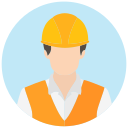
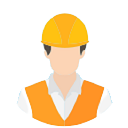
Ajuste de imagens MenuView

diff --git a/ProjetoBD/src/View/MenuView.java b/ProjetoBD/src/View/MenuView.java
@@ -55,7 +55,6 @@ public class MenuView extends javax.swing.JFrame {
         jMenuItem2.setText("jMenuItem2");
 
         setDefaultCloseOperation(javax.swing.WindowConstants.EXIT_ON_CLOSE);
-        setPreferredSize(new java.awt.Dimension(780, 550));
         setResizable(false);
         setSize(new java.awt.Dimension(780, 550));
         addWindowListener(new java.awt.event.WindowAdapter() {
@@ -66,7 +65,7 @@ public class MenuView extends javax.swing.JFrame {
 
         jLabel1.setIcon(new javax.swing.ImageIcon(getClass().getResource("/View/Imagens/workerIcon.png"))); // NOI18N
 
-        jLabel2.setIcon(new javax.swing.ImageIcon(getClass().getResource("/View/Imagens/searchIcon.png"))); // NOI18N
+        jLabel2.setIcon(new javax.swing.ImageIcon(getClass().getResource("/View/Imagens/pacienteIcon.png"))); // NOI18N
 
         jSeparator1.setOrientation(javax.swing.SwingConstants.VERTICAL);
 
@@ -122,16 +121,16 @@ public class MenuView extends javax.swing.JFrame {
                 .addComponent(jSeparator1, javax.swing.GroupLayout.PREFERRED_SIZE, 50, javax.swing.GroupLayout.PREFERRED_SIZE)
                 .addGroup(layout.createParallelGroup(javax.swing.GroupLayout.Alignment.LEADING)
                     .addGroup(layout.createSequentialGroup()
-                        .addPreferredGap(javax.swing.LayoutStyle.ComponentPlacement.RELATED, javax.swing.GroupLayout.DEFAULT_SIZE, Short.MAX_VALUE)
+                        .addPreferredGap(javax.swing.LayoutStyle.ComponentPlacement.RELATED, 112, Short.MAX_VALUE)
                         .addGroup(layout.createParallelGroup(javax.swing.GroupLayout.Alignment.LEADING, false)
                             .addComponent(jButton3, javax.swing.GroupLayout.DEFAULT_SIZE, javax.swing.GroupLayout.DEFAULT_SIZE, Short.MAX_VALUE)
                             .addComponent(jButton4, javax.swing.GroupLayout.DEFAULT_SIZE, javax.swing.GroupLayout.DEFAULT_SIZE, Short.MAX_VALUE)
                             .addComponent(jLabel2, javax.swing.GroupLayout.DEFAULT_SIZE, javax.swing.GroupLayout.DEFAULT_SIZE, Short.MAX_VALUE))
-                        .addGap(0, 0, Short.MAX_VALUE))
-                    .addGroup(layout.createSequentialGroup()
-                        .addPreferredGap(javax.swing.LayoutStyle.ComponentPlacement.RELATED, 137, Short.MAX_VALUE)
+                        .addGap(0, 106, Short.MAX_VALUE))
+                    .addGroup(javax.swing.GroupLayout.Alignment.TRAILING, layout.createSequentialGroup()
+                        .addPreferredGap(javax.swing.LayoutStyle.ComponentPlacement.RELATED, javax.swing.GroupLayout.DEFAULT_SIZE, Short.MAX_VALUE)
                         .addComponent(jLabel4)
-                        .addGap(116, 116, 116))))
+                        .addGap(125, 125, 125))))
         );
         layout.setVerticalGroup(
             layout.createParallelGroup(javax.swing.GroupLayout.Alignment.LEADING)
@@ -140,14 +139,15 @@ public class MenuView extends javax.swing.JFrame {
                 .addGroup(layout.createParallelGroup(javax.swing.GroupLayout.Alignment.TRAILING)
                     .addComponent(jSeparator1)
                     .addGroup(javax.swing.GroupLayout.Alignment.LEADING, layout.createSequentialGroup()
-                        .addGroup(layout.createParallelGroup(javax.swing.GroupLayout.Alignment.LEADING)
-                            .addComponent(jLabel3, javax.swing.GroupLayout.PREFERRED_SIZE, 56, javax.swing.GroupLayout.PREFERRED_SIZE)
-                            .addComponent(jLabel4, javax.swing.GroupLayout.PREFERRED_SIZE, 56, javax.swing.GroupLayout.PREFERRED_SIZE))
-                        .addPreferredGap(javax.swing.LayoutStyle.ComponentPlacement.RELATED)
+                        .addGap(62, 62, 62)
                         .addGroup(layout.createParallelGroup(javax.swing.GroupLayout.Alignment.LEADING)
                             .addComponent(jLabel2)
                             .addComponent(jLabel1))
-                        .addPreferredGap(javax.swing.LayoutStyle.ComponentPlacement.RELATED, 164, Short.MAX_VALUE)
+                        .addPreferredGap(javax.swing.LayoutStyle.ComponentPlacement.UNRELATED)
+                        .addGroup(layout.createParallelGroup(javax.swing.GroupLayout.Alignment.LEADING)
+                            .addComponent(jLabel4, javax.swing.GroupLayout.PREFERRED_SIZE, 56, javax.swing.GroupLayout.PREFERRED_SIZE)
+                            .addComponent(jLabel3, javax.swing.GroupLayout.PREFERRED_SIZE, 56, javax.swing.GroupLayout.PREFERRED_SIZE))
+                        .addPreferredGap(javax.swing.LayoutStyle.ComponentPlacement.RELATED, javax.swing.GroupLayout.DEFAULT_SIZE, Short.MAX_VALUE)
                         .addGroup(layout.createParallelGroup(javax.swing.GroupLayout.Alignment.LEADING)
                             .addComponent(jButton2, javax.swing.GroupLayout.Alignment.TRAILING, javax.swing.GroupLayout.PREFERRED_SIZE, 50, javax.swing.GroupLayout.PREFERRED_SIZE)
                             .addComponent(jButton4, javax.swing.GroupLayout.Alignment.TRAILING, javax.swing.GroupLayout.PREFERRED_SIZE, 50, javax.swing.GroupLayout.PREFERRED_SIZE))
